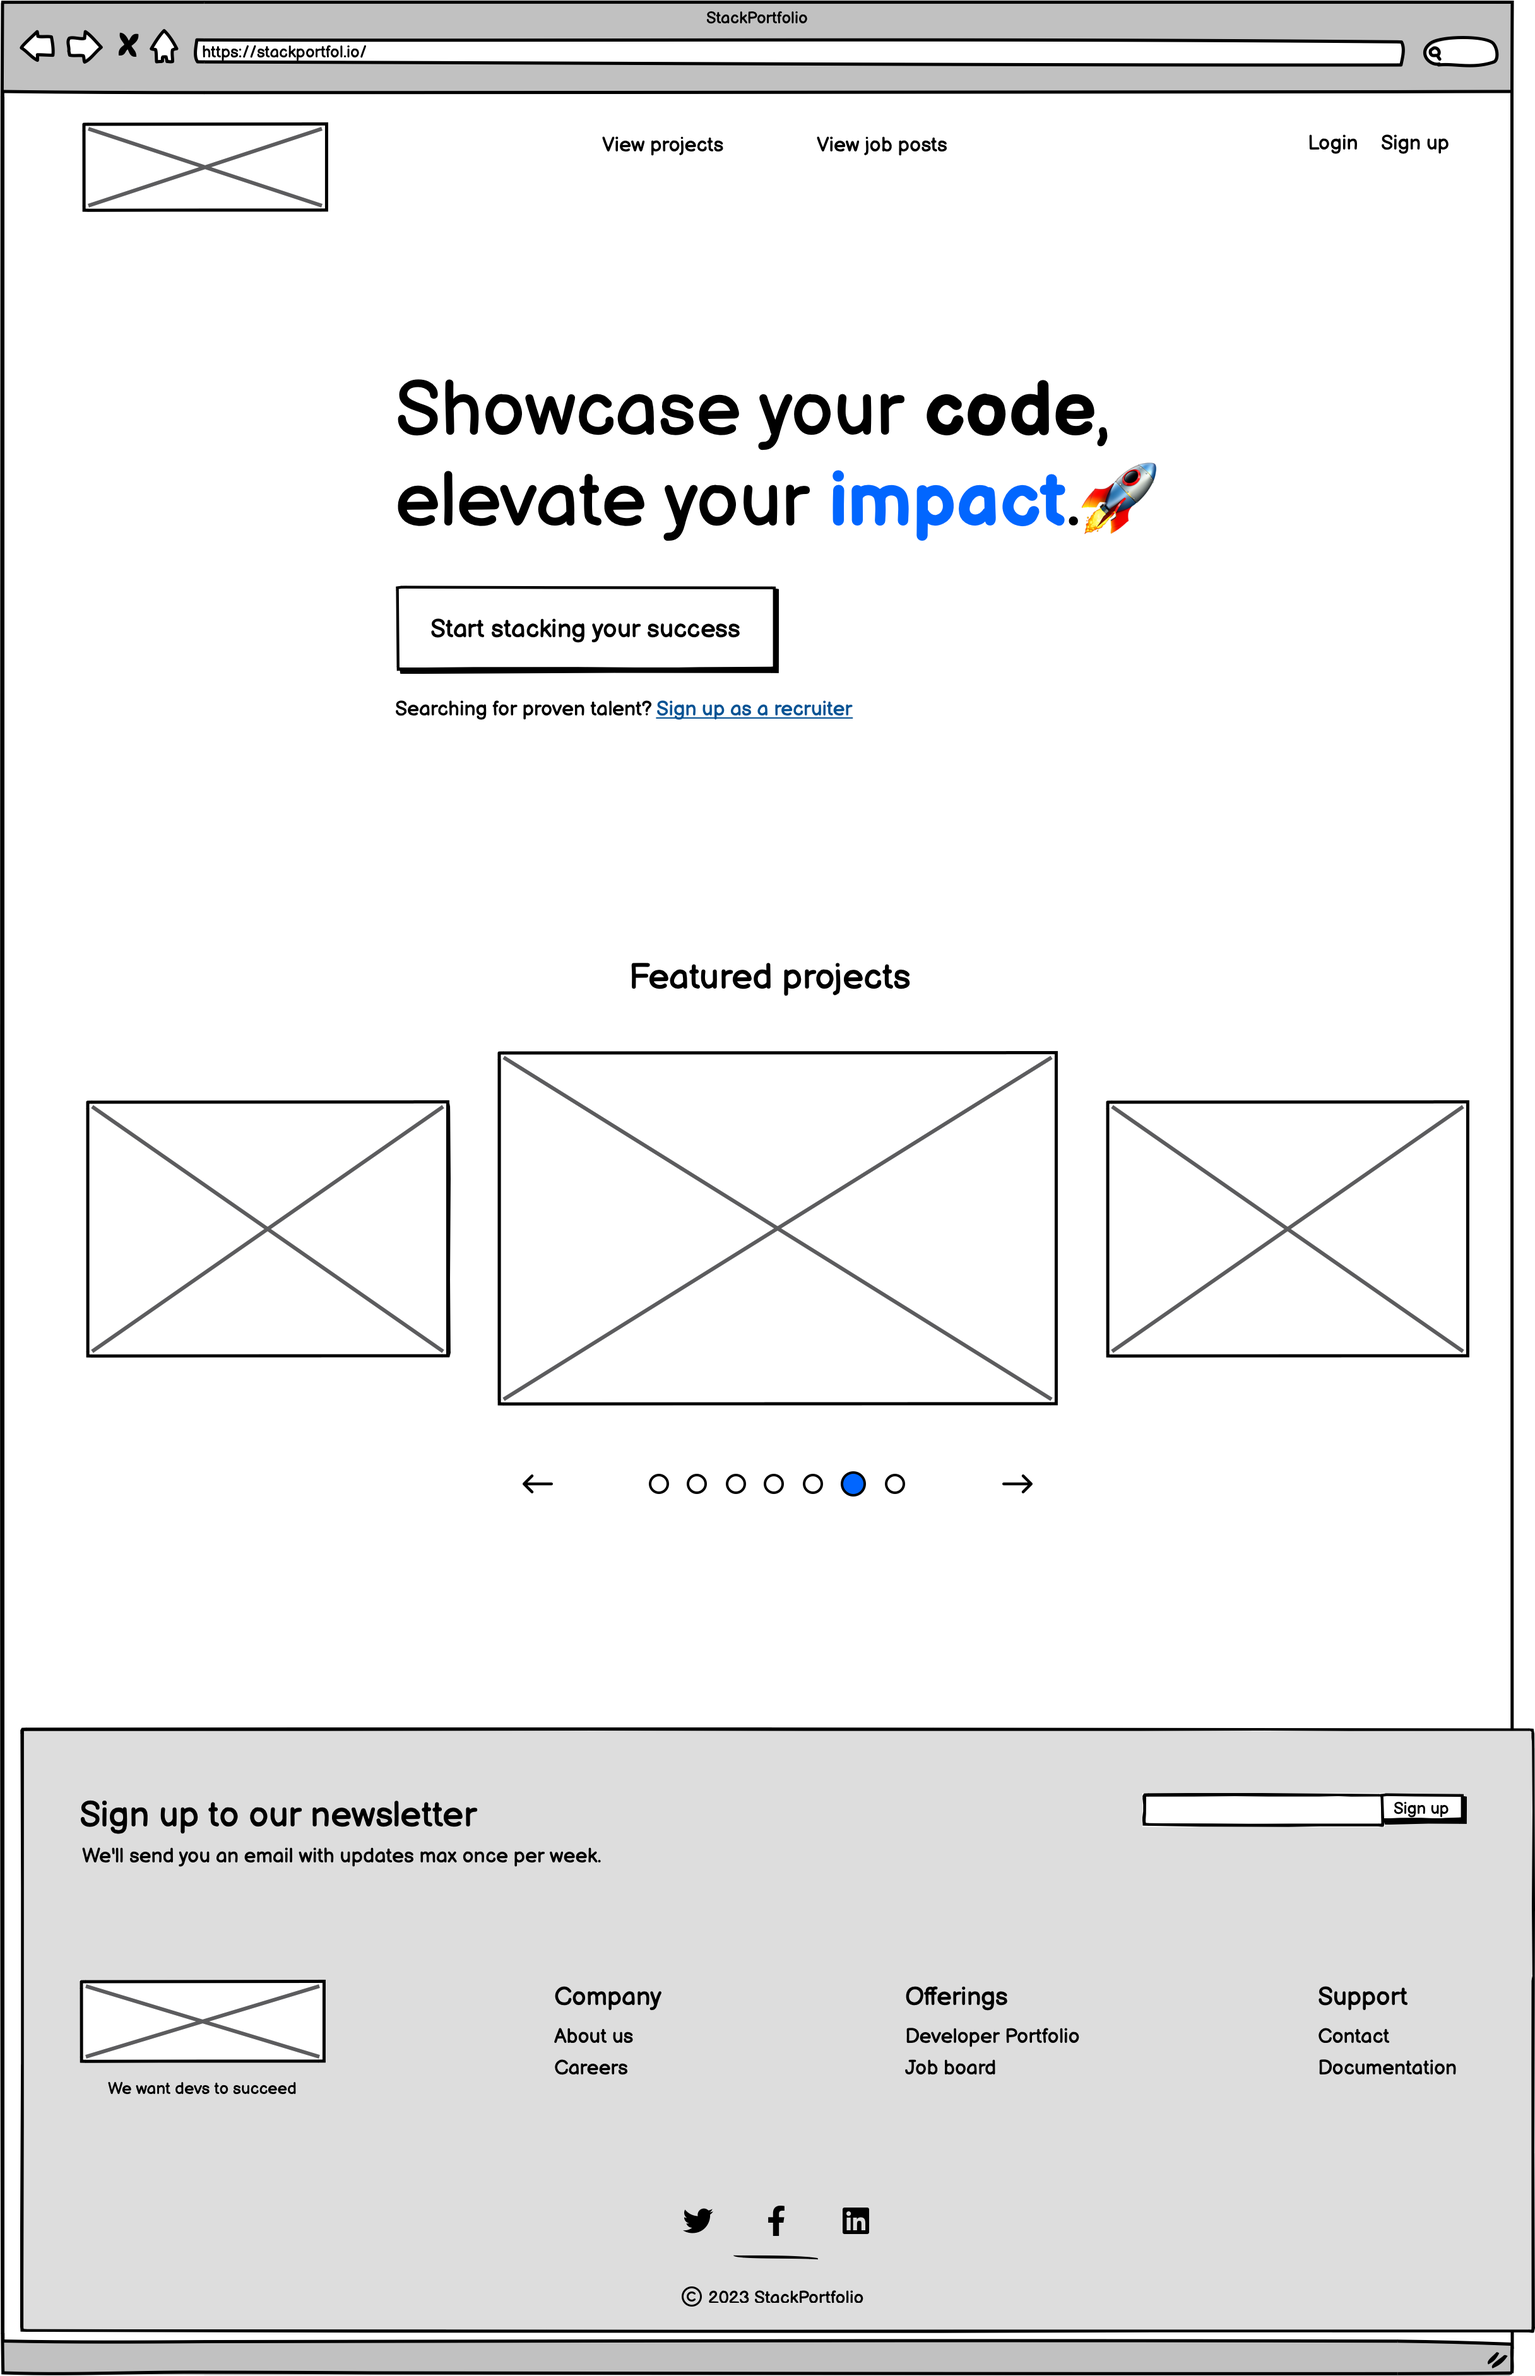
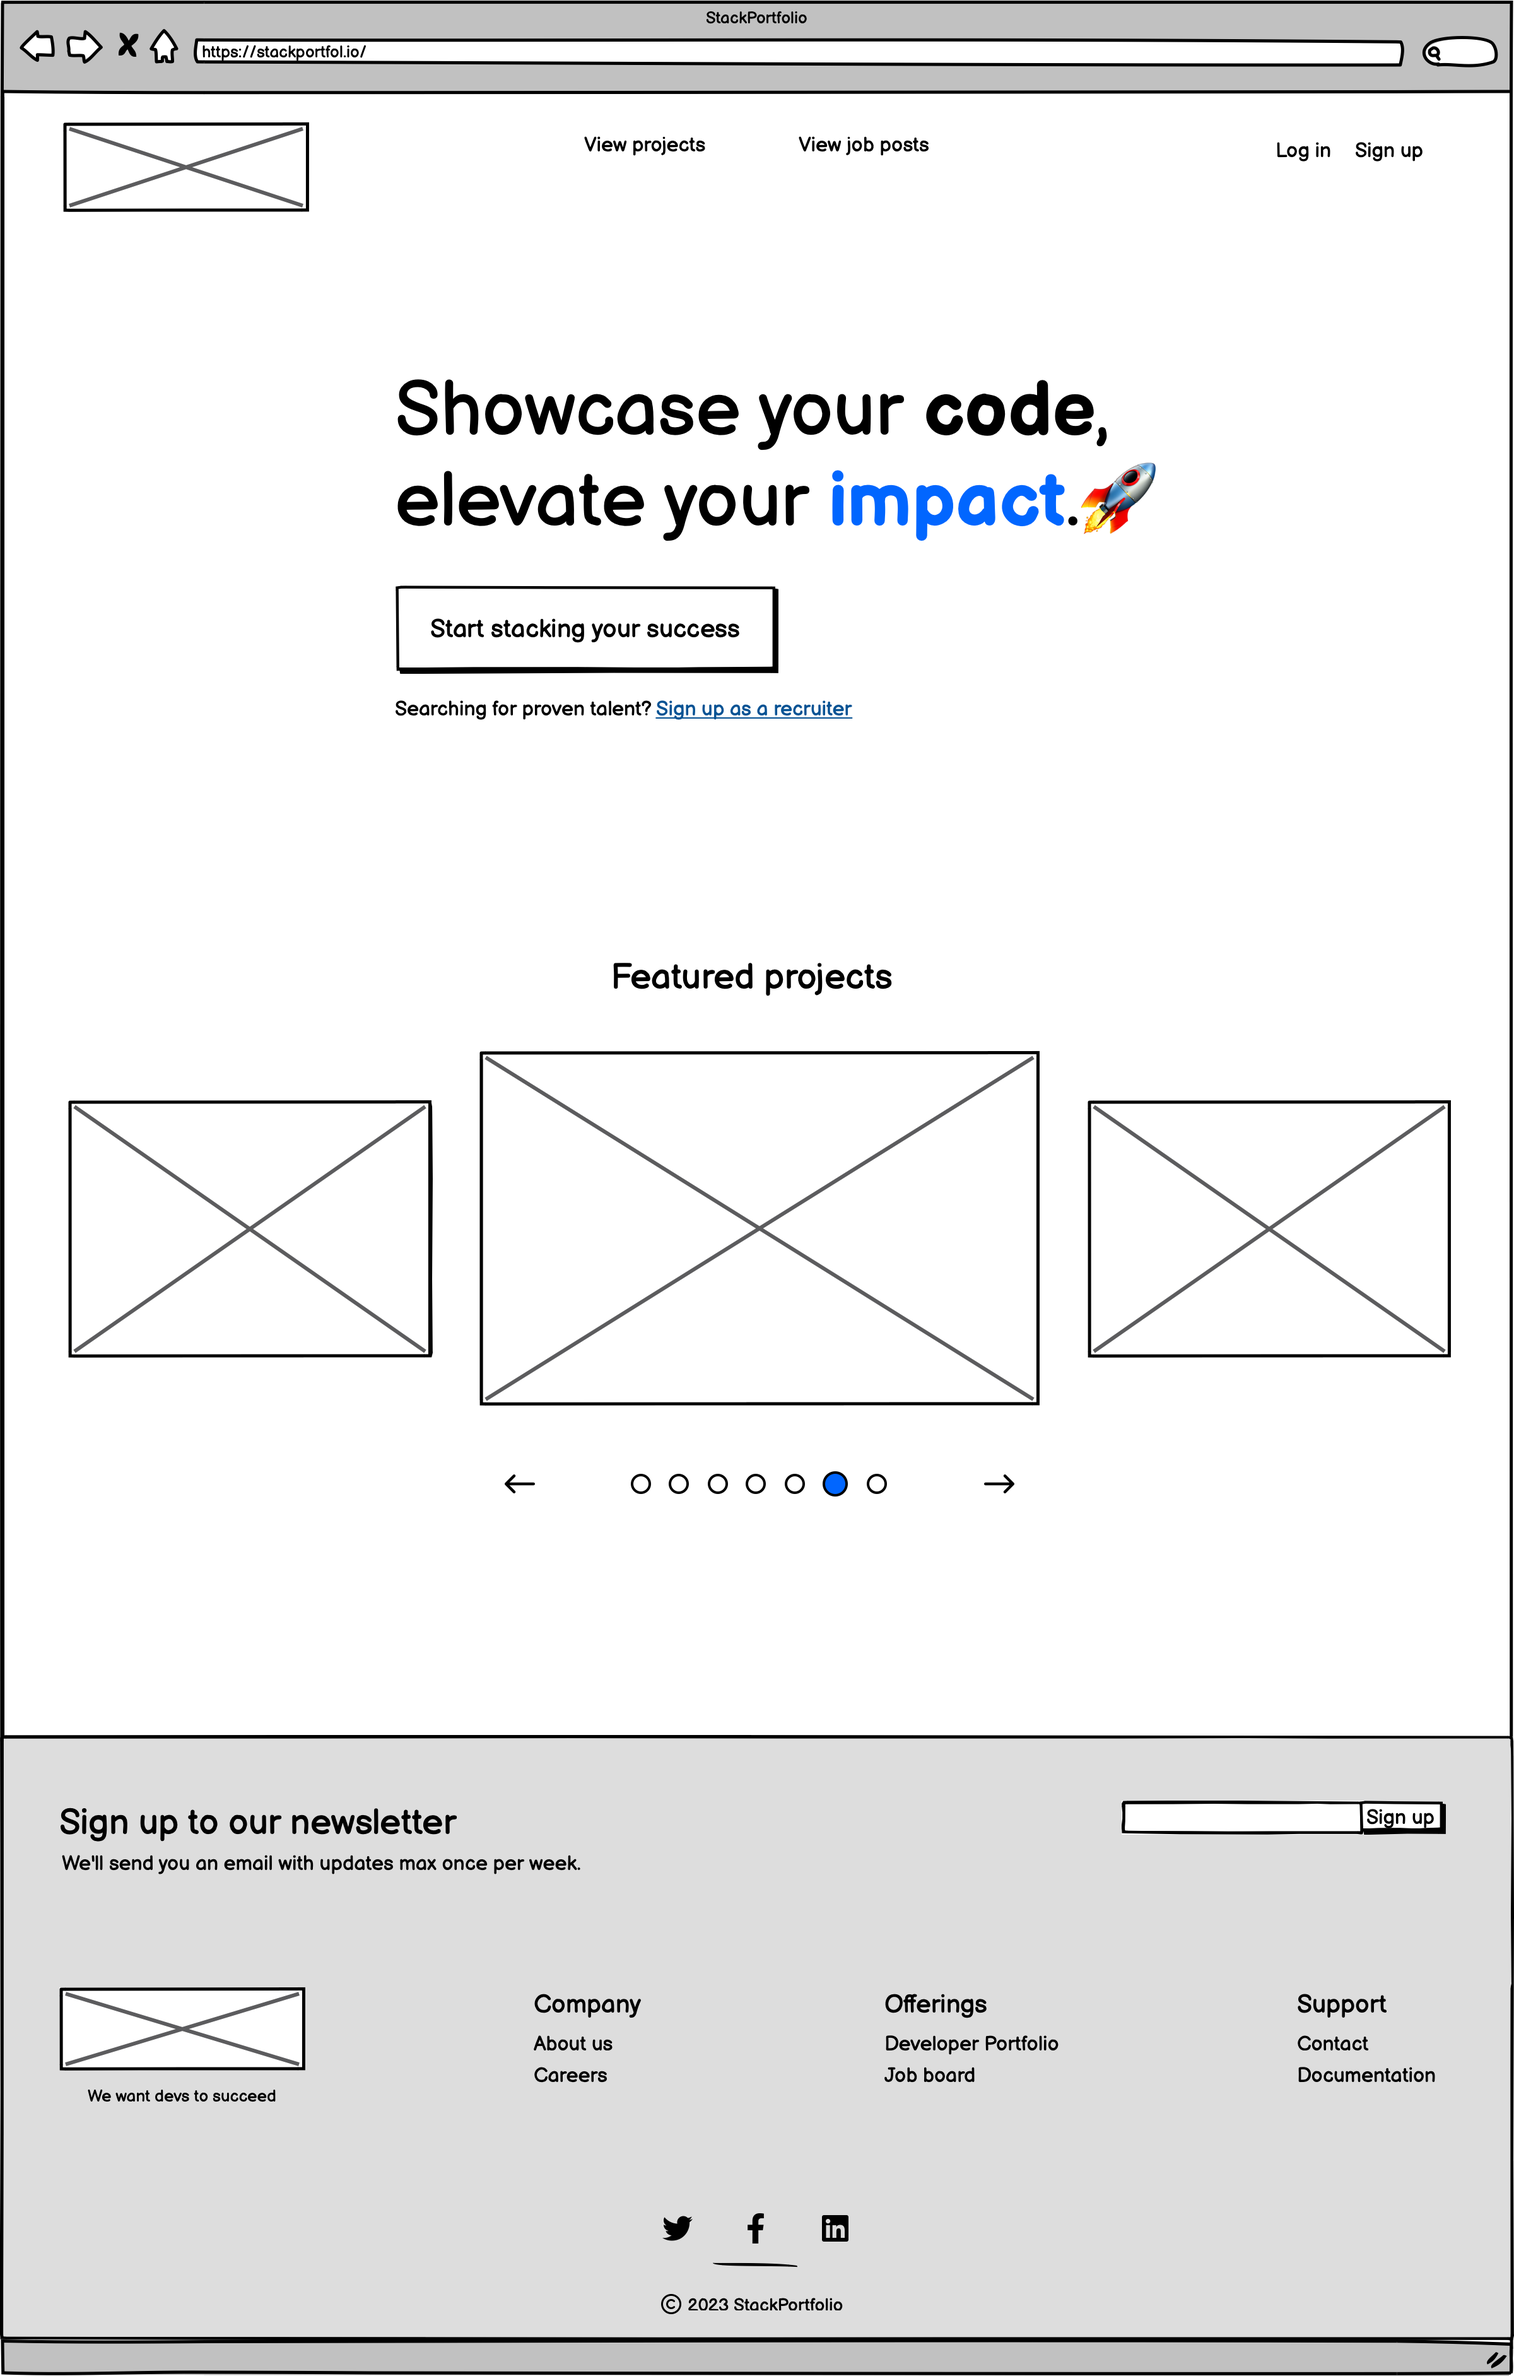
add wireframes and palette to readme
- add colour palette to docs
- add sign up wireframes
- add user profile wireframes
- update homepage desktop wireframe

diff --git a/README.md b/README.md
@@ -157,6 +157,34 @@ I have created wireframes for the main pages of the site. I have used [Balsamiqu
 ![Homepage - Mobile](./documentation/wireframes/homepage-mobile.png)
 
 </details>
+<br>
+<details>
+  <summary>Forms - Desktop (click to expand)</summary>
+
+![Sign up page - Desktop](./documentation/wireframes/sign-up-desktop.png)
+
+</details>
+
+<details>
+  <summary>Forms - Mobile (click to expand)</summary>
+
+![Sign up page - Mobile](./documentation/wireframes/sign-up-mobile.png)
+
+</details>
+<br>
+<details>
+  <summary>Tech user profile - Desktop (click to expand)</summary>
+
+![Tech user profile - Desktop](./documentation/wireframes/tech-user-profile-desktop.png)
+
+</details>
+
+<details>
+  <summary>Tech user profile - Mobile (click to expand)</summary>
+
+![Tech user profile - Mobile](./documentation/wireframes/tech-user-profile-mobile.png)
+
+</details>
 
 ### Entity Relationship Diagram
 
